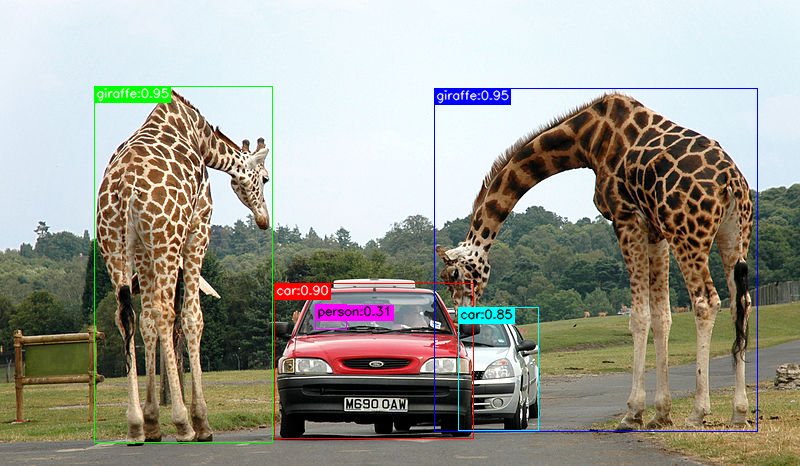
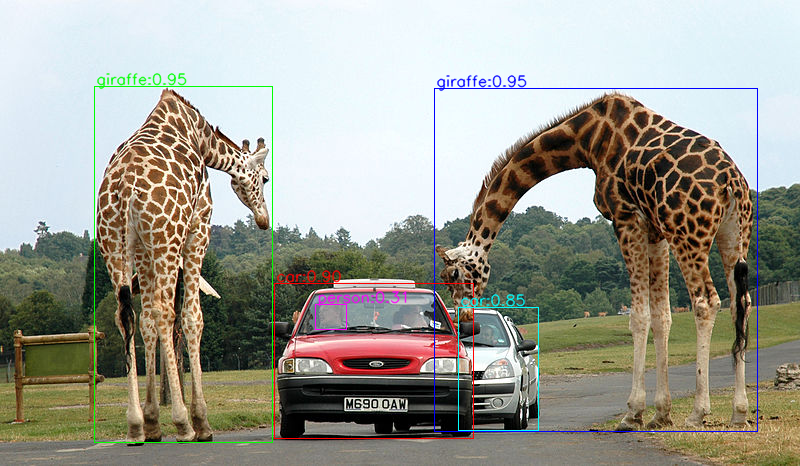
refine: support flexible input images and improve viz

diff --git a/src/utils/image_utils.py b/src/utils/image_utils.py
@@ -1,14 +1,18 @@
+import glob
 import os
 
 import cv2
 import torch
 
-INPUT_IMAGE_PATH = os.path.join("inputs", "image.png")
+# Dynamically find the first image file named 'image.*' in the inputs directory
+image_candidates = glob.glob(os.path.join("inputs", "image.*"))
+INPUT_IMAGE_PATH = image_candidates[0] if image_candidates else None
 
 
 def load_image(image_path, img_size=640):
     """
     Load and preprocess an image for model inference.
+    Supports PNG, JPG, JPEG, WEBP, and other formats supported by OpenCV.
 
     Returns:
         orig_img: Original BGR image.
@@ -16,9 +20,10 @@ def load_image(image_path, img_size=640):
         orig_shape: Original image shape.
         resized_shape: Resized image shape.
     """
-    img = cv2.imread(image_path)
+    # Try reading with OpenCV (supports png, jpg, jpeg, webp, bmp, tiff, etc.)
+    img = cv2.imread(image_path, cv2.IMREAD_COLOR)
     if img is None:
-        raise FileNotFoundError(f"Image not found: {image_path}")
+        raise FileNotFoundError(f"Image not found or unsupported format: {image_path}")
     img_rgb = cv2.cvtColor(img, cv2.COLOR_BGR2RGB)
     img_resized = cv2.resize(img_rgb, (img_size, img_size))
     img_tensor = torch.from_numpy(img_resized).permute(2, 0, 1).float() / 255.0
@@ -55,29 +60,28 @@ def save_detection_image(
             else f"{int(label)}:{score:.2f}"
         )
         cv2.rectangle(img, (x1, y1), (x2, y2), color, 1)
-        font_scale = 0.4
-        font_thickness = 1
+        # Make font size proportional to image height (or width), but smaller
+        font_scale = (
+            max(img.shape[0], img.shape[1]) / 1600.0
+        )  # Increased divisor for smaller font
+        font_thickness = max(1, int(font_scale * 2))
         (text_width, text_height), baseline = cv2.getTextSize(
             label_text, cv2.FONT_HERSHEY_SIMPLEX, font_scale, font_thickness
         )
         margin_x, margin_y = 2, 2
         text_x = x1 + margin_x
-        text_y = y1 + text_height + margin_y
-        cv2.rectangle(
-            img,
-            (text_x - 1, text_y - text_height - 1),
-            (text_x + text_width + 1, text_y + baseline + 1),
-            color,
-            -1,
-        )
-        text_color = (255, 255, 255) if sum(color) < 384 else (0, 0, 0)
+        text_y = max(0, y1 - text_height - margin_y)
+        # Draw label text only, no background, using border color
         cv2.putText(
             img,
             label_text,
-            (text_x, text_y),
+            (
+                text_x,
+                text_y + text_height,
+            ),  # OpenCV puts text baseline at y, so add text_height
             cv2.FONT_HERSHEY_SIMPLEX,
             font_scale,
-            text_color,
+            color,  # Use border color for text
             font_thickness,
             lineType=cv2.LINE_AA,
         )

diff --git a/src/utils/viz_utils.py b/src/utils/viz_utils.py
@@ -12,13 +12,29 @@ def plot_iou_chart(iou_scores, out_path, pt_scores=None, onnx_scores=None):
         onnx_scores (list of float, optional): ONNX detection scores.
     """
     plt.figure(figsize=(10, 5))
-    indices = range(len(iou_scores))
+    # Determine the minimum length among all lists
+    n_iou = len(iou_scores)
+    n_pt = len(pt_scores) if pt_scores is not None else n_iou
+    n_onnx = len(onnx_scores) if onnx_scores is not None else n_iou
+    n = min(n_iou, n_pt, n_onnx)
+    indices = range(n)
     bar_width = 0.35
 
-    if pt_scores is not None and onnx_scores is not None:
+    # Pad or trim scores to match n
+    def pad_or_trim(arr, n):
+        arr = arr if arr is not None else [0] * n
+        if len(arr) < n:
+            arr = list(arr) + [0] * (n - len(arr))
+        return arr[:n]
+
+    iou_scores_plot = pad_or_trim(iou_scores, n)
+    pt_scores_plot = pad_or_trim(pt_scores, n) if pt_scores is not None else None
+    onnx_scores_plot = pad_or_trim(onnx_scores, n) if onnx_scores is not None else None
+
+    if pt_scores_plot is not None and onnx_scores_plot is not None:
         plt.bar(
             [i - bar_width / 2 for i in indices],
-            pt_scores,
+            pt_scores_plot,
             width=bar_width,
             label="PyTorch Score",
             color="#1f77b4",
@@ -26,18 +42,20 @@ def plot_iou_chart(iou_scores, out_path, pt_scores=None, onnx_scores=None):
         )
         plt.bar(
             [i + bar_width / 2 for i in indices],
-            onnx_scores,
+            onnx_scores_plot,
             width=bar_width,
             label="ONNX Score",
             color="#ff7f0e",
             alpha=0.7,
         )
-        plt.plot(indices, iou_scores, "ko-", label="IoU (pt vs onnx)", markersize=6)
+        plt.plot(
+            indices, iou_scores_plot, "ko-", label="IoU (pt vs onnx)", markersize=6
+        )
         plt.ylabel("Score / IoU")
     else:
         plt.bar(
             indices,
-            iou_scores,
+            iou_scores_plot,
             width=bar_width,
             label="IoU (pt vs onnx)",
             color="#1f77b4",

diff --git a/src/main.py b/src/main.py
@@ -1,11 +1,17 @@
 # This script delegates the workflow to the DetectionDomain.
 
+# Paths
+import glob
 import os
 
 from domains.detection_domain import DetectionDomain
 
-# Paths
-INPUT_IMAGE_PATH = os.path.join("inputs", "image.png")
+# Dynamically find image.* in inputs directory
+image_candidates = glob.glob(os.path.join("inputs", "image.*"))
+if image_candidates:
+    INPUT_IMAGE_PATH = image_candidates[0]
+else:
+    INPUT_IMAGE_PATH = None  # Or handle error appropriately
 PT_MODEL_PATH = os.path.join("models", "yolo11n.pt")
 ONNX_MODEL_PATH = os.path.join("models", "yolo11n.onnx")
 OUTPUT_PT_IMAGE = os.path.join("outputs", "pt_result.png")
